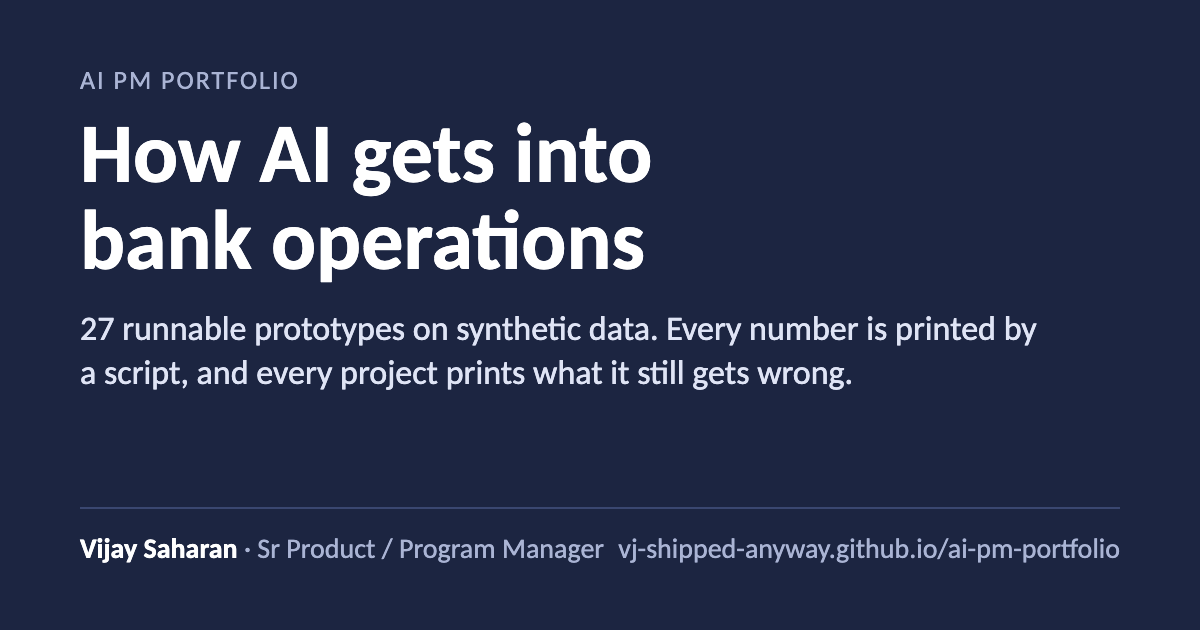
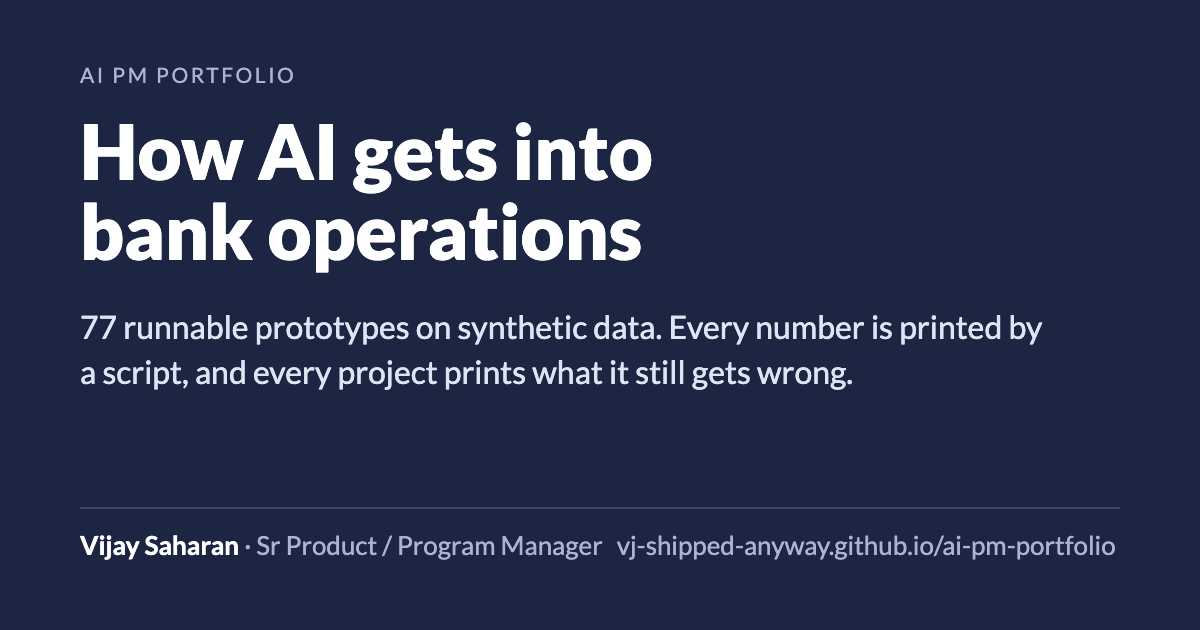
Landing page and README: lead the earliest projects with measured results, drop unsourced figures, and say 77 prototypes on the social card

diff --git a/index.html b/index.html
@@ -116,19 +116,19 @@
     <article class="card">
       <p class="num">04 · AI / Quality</p>
       <h2>EvalForge</h2>
-      <p class="line">Versioned probe sets, calibrated rubrics and a CI gate that blocks a deploy on regression.</p>
+      <p class="line">Stored probe-set runs and a CI gate that blocks a deploy on regression, using fixed thresholds on pass rates and judge agreement.</p>
       <p class="links"><a class="primary" href="./04-evalforge-llm-eval-platform/demo.html">Open demo</a> <a href="https://github.com/Vj-shipped-anyway/ai-pm-portfolio/tree/main/04-evalforge-llm-eval-platform">Case study</a> <a href="https://github.com/Vj-shipped-anyway/ai-pm-portfolio/blob/main/04-evalforge-llm-eval-platform/ARCHITECTURE.md">Architecture</a></p>
     </article>
     <article class="card">
       <p class="num">05 · AI / Operations</p>
       <h2>AgentWatch</h2>
-      <p class="line">Classifies agent failures and enforces a per-incident dollar cap.</p>
+      <p class="line">Composes an incident record per agent failure under a six-deficiency taxonomy and checks each run against a per-agent dollar cap.</p>
       <p class="links"><a class="primary" href="./05-agentwatch-agent-observability/demo.html">Open demo</a> <a href="https://github.com/Vj-shipped-anyway/ai-pm-portfolio/tree/main/05-agentwatch-agent-observability">Case study</a> <a href="https://github.com/Vj-shipped-anyway/ai-pm-portfolio/blob/main/05-agentwatch-agent-observability/ARCHITECTURE.md">Architecture</a></p>
     </article>
     <article class="card">
       <p class="num">06 · AI / Security</p>
       <h2>PromptShield</h2>
-      <p class="line">Five layers between user input and the model for internal copilots over confidential data.</p>
+      <p class="line">Five layers between user input and the model for internal copilots over confidential data, shown with deterministic regex rule packs.</p>
       <p class="links"><a class="primary" href="./06-promptshield-prompt-injection-defense/demo.html">Open demo</a> <a href="https://github.com/Vj-shipped-anyway/ai-pm-portfolio/tree/main/06-promptshield-prompt-injection-defense">Case study</a> <a href="https://github.com/Vj-shipped-anyway/ai-pm-portfolio/blob/main/06-promptshield-prompt-injection-defense/ARCHITECTURE.md">Architecture</a></p>
     </article>
     <article class="card">

diff --git a/README.md b/README.md
@@ -77,14 +77,14 @@ These are the twenty-seven walkthroughs. Each has a full README, sample data CSV
 
 | Flagship | What it does | Utility delivered | Live demo |
 | --- | --- | --- | --- |
-| **🛡 [HalluGuard](./01-halluguard-bank-chatbot-safety/)** — Bank chatbot hallucination containment | Wraps deployed chatbots; is designed to catch 8 named foundation-model failure modes (paraphrase blindness, negation flip, multi-hop, citation fabrication, …); routes low-confidence to abstention | 🟢 19 wrong answers before containment, 0 after, on the 30-query eval set (fixed mock verifier scores) | **▶ [Live demo](https://halluguard-bfsi.streamlit.app)** · **▶ [Static demo](https://vj-shipped-anyway.github.io/ai-pm-portfolio/01-halluguard-bank-chatbot-safety/demo.html)** · **▶ [60-sec walkthrough](https://app.arcade.software/share/daLEfWH7yD0sYutT3HTP)** |
-| **🛰 [DriftSentinel](./02-driftsentinel-model-drift-monitoring/)** — Production model drift & decay | Three-loop sentinel (Detect → Diagnose → Decide) over the credit / fraud / AML / GenAI fleet; auto-assembles MRM evidence bundle | 🟡 Drift MTTD 78d → 9d (modeled — assumes the synthetic 90-day shipped data and a Tier-1-style fleet) × \~1,200 production models = \~83,000 model-decay-days/yr prevented at Tier-1 fleet scale; 🟡 \~$14M/yr modeled prevented loss at the $50B-asset bank shape (assumes 8-model fleet, MTTD compression, published loss-per-quarter-of-decay benchmarks) | **▶ [Live demo](https://driftsentinel-bfsi.streamlit.app)** · **▶ [Static demo](https://vj-shipped-anyway.github.io/ai-pm-portfolio/02-driftsentinel-model-drift-monitoring/demo.html)** · **▶ [60-sec walkthrough](https://app.arcade.software/share/mHOnNZCi66FsK0IFyiLs)** |
-| **🧪 [EvalForge](./04-evalforge-llm-eval-platform/)** — Eval-first console for regulated AI | Versioned probe sets + calibrated rubrics + cross-vendor LLM-as-judge + CI gate (GitHub Actions / Argo CD pre-deploy hook) that blocks the deploy on regression | 🟢 Both silent vendor-snapshot updates in the 50-run synthetic dataset blocked on first eval run; 🟡 silent post-deploy regression rate 14% → <2% (modeled — assumes an industry baseline of ~14% and the Tier-1-shaped GenAI fleet) × 12-20 customer-facing GenAI features per Tier-1 BFSI shop = 🟡 ~25-40 silent regressions prevented per year at fleet scale (assumes ~15 shipped changes per feature per year); 🟡 tens of thousands to hundreds of thousands of bad responses caught before customer impact per year (modeled: assumes thousands of bad responses per regression) | **▶ [Demo](https://vj-shipped-anyway.github.io/ai-pm-portfolio/04-evalforge-llm-eval-platform/demo.html)** |
-| **🔍 [LineageLog](./09-lineagelog-ai-decision-audit/)** — AI decision audit trail & decision lineage | Immutable decision-grain composition layer that binds Cloud Logging + Cloud Audit Logs + Agent Identity Logs + OpenTelemetry traces at `(decision_id, customer_id_hash, timestamp)`; six-deficiency taxonomy closed; auto-assembled exam-pack export | 🟢 6 of 6 deficiencies closed on the headline decision, all 200 decisions composed in the synthetic corpus (29 of the 200 outcome rows are none_observed); 🟢 composition latency in milliseconds per decision on the prototype (step_04 prints it; varies by run); 🟡 audit-pack assembly time 3 weeks → 3 seconds (modeled — assumes the synthetic 200-decision corpus + Tier-1-style four-model fleet); 🟡 exam-readiness coverage 22% → 100% (modeled — assumes published BFSI baseline for sample-based vs continuous readiness); 🔴 time-to-decision-evidence 14d → 12min (designed) × 🟡 50-200M regulated AI decisions/yr at Tier-1 retail bank = continuous exam-readiness | **▶ [Demo](https://vj-shipped-anyway.github.io/ai-pm-portfolio/09-lineagelog-ai-decision-audit/demo.html)** |
-| **🤖 [AgentWatch](./05-agentwatch-agent-observability/)** — Agent reliability & tool-use observability | Sidecar over LangGraph / AutoGen / Bedrock Agents / OpenAI Assistants; classifies failure under a six-deficiency taxonomy (runaway tool loops, hallucinated tool args, silent drift, blast-radius unbounded, missing reasoning trace, cost detached from outcomes); enforces per-incident dollar cap; auto-assembled incident pack routed to SRE on-call + line-1 owner | 🟢 24 of 24 detected incidents composed into six-deficiency records on the 500-run synthetic corpus; 🟢 composition latency <50ms per incident on the prototype; 🟢 headline runaway cut off at $4,218 against a $250 per-agent cap; Step 1 prints $47,978 of undetected runaway cost over the 30 days; 🟡 APM-only detection rate \~25% → AgentWatch 100% (modeled — assumes Datadog with standard p99 thresholds); 🔴 MTTR 4h+ → <10min (designed) × 🟡 8-20 deployed agents at Tier-1 BFSI fleet scale = \~24 runaways/yr bounded ($120k - $1.2M of bounded spend) | **▶ [Demo](https://vj-shipped-anyway.github.io/ai-pm-portfolio/05-agentwatch-agent-observability/demo.html)** |
-| **🔒 [PromptShield](./06-promptshield-prompt-injection-defense/)** — Prompt-injection & egress defense for internal BFSI copilots | Five-layer defense-in-depth gateway between user input and the LLM: L1 input classifier (Llama Guard 3 / fine-tuned DeBERTa), L2 retrieval scanner (catches indirect injection in retrieved RAG content), L3 tool-call gate (OPA / Rego), L4 egress filter (DLP regex pack), L5 per-session memory boundary (Redis + SPIFFE); six-class deficiency taxonomy (direct, indirect, tool-call abuse, egress, cross-session leak, jailbreak) closed | 🟢 99% catch rate on the 100-prompt synthetic attack suite (measured) vs. 43% on regex baseline; 🟢 1% false-positive rate on the 200-prompt legitimate-banker corpus; 🟢 100% accuracy on the 50-call tool-gate ground-truth set; 🟡 modeled production catch 96%+ at 4% FP (assumes fine-tuned classifier replaces the regex pack + continuous red-team probes); 🔴 designed data-exfiltration incidents → 0 × 🟡 4-12 internal copilots over confidential data at every Tier-1 BFSI shop = modeled $4-15M of prevented loss per confirmed customer-data breach avoided | **▶ [Demo](https://vj-shipped-anyway.github.io/ai-pm-portfolio/06-promptshield-prompt-injection-defense/demo.html)** |
-| **💰 [InferenceLens](./07-inferencelens-inference-finops/)** — Per-feature inference economics for the BFSI GenAI portfolio | Per-feature inference-economics layer over OpenTelemetry span attributes + vendor billing-API reconcile; five derived views (per-feature attribution, runaway detection, cheaper-model substitution recommender, dead-feature flagger, per-feature ROI ranking); six-deficiency taxonomy (no per-feature attribution, no per-tenant attribution, no runaway detection, no substitution recommender, no dead-feature flagger, no per-feature ROI) closed | 🟢 6 of 6 deficiencies closed on every feature in the 18-feature synthetic fleet; 🟢 all five derived views composed in <10ms on the prototype; 🟢 headline runaway (FT_001 retrieval-depth misconfig) flagged day 1 with modeled overspend \~$195k caught vs. 45 days undetected; 🟡 $301,800/mo of modeled substitution savings across 6 candidates (sum of CSV inputs); 🟢 dead-feature spend $25,991/mo flagged on FT_009; 🟡 modeled fleet-scale spend reduction 25-30% (assumes typical Tier-1 BFSI portfolio shape) × 🟡 $8-30M/yr aggregate inference spend at Tier-1 BFSI scale = **\~$2-9M/yr saved** | **▶ [Demo](https://vj-shipped-anyway.github.io/ai-pm-portfolio/07-inferencelens-inference-finops/demo.html)** |
-| **👥 [OversightOps](./08-oversightops-hitl-workflow/)** — HITL workflow designer | Calibrated, role-aware human-in-the-loop layer: difficulty-stratified routing (case + AI confidence + customer tier + country risk), rubber-stamp blocker (tier-specific time-on-task floor), reviewer calibration drift detection, escalation path for hard cases, SLA-by-tier with timer engagement, ground-truth feedback loop closed via downstream signals (SAR / OFAC / CFPB / charge-off) | 🟢 a verdict composed for all 1,000 cases in the synthetic KYC corpus; 🟢 composition latency under 1 ms per case on the prototype (the script prints the measured time); 🟢 125 of 146 private-banking reviews under the 60-second floor flagged by the blocker; 🟡 Tier-1 rubber-stamp rate 94% → 4% (modeled — assumes published BFSI baseline + OversightOps blocker engaged on Tier-1 queues); 🟡 reviewer-vs-ground-truth divergence 38% → 8% (modeled — assumes the 6-12-month tail + calibration packet engaged weekly); 🔴 Tier-1 KYC review SLA 9s → 8 min (designed) × 🟡 every regulated AI workflow with a HITL step (typical Tier-1: 6-15 such pipelines × thousands of high-stakes decisions per year per pipeline) = real oversight instead of theatrical | **▶ [Demo](https://vj-shipped-anyway.github.io/ai-pm-portfolio/08-oversightops-hitl-workflow/demo.html)** |
+| **🛡 [HalluGuard](./01-halluguard-bank-chatbot-safety/)** — Bank chatbot hallucination containment | A containment layer in front of a bank chatbot, designed around 8 named foundation-model failure modes (paraphrase blindness, negation flip, multi-hop, citation fabrication, …): it abstains and hands the customer to a banker when it cannot support an answer. Shown on 30 synthetic questions with a fixed mock verifier | 🟢 the LLM alone answers 11 of 30 correctly and 19 wrong answers would reach the customer; 🟢 with containment 11 are served, 0 wrong ones ship and 19 go to a banker (63.3%); 🟢 a rule-based router sends 28 of 30 to a page or a banker; the verifier scores are fixed, so this checks the method and is not a rate on a real model | **▶ [Live demo](https://halluguard-bfsi.streamlit.app)** · **▶ [Static demo](https://vj-shipped-anyway.github.io/ai-pm-portfolio/01-halluguard-bank-chatbot-safety/demo.html)** · **▶ [60-sec walkthrough](https://app.arcade.software/share/daLEfWH7yD0sYutT3HTP)** |
+| **🛰 [DriftSentinel](./02-driftsentinel-model-drift-monitoring/)** — Production model drift & decay | Three loops, Detect, Diagnose and Decide, over an 8-model synthetic credit, fraud, AML and GenAI fleet; writes a sample evidence bundle for one model | 🟢 11 alerts (6 YELLOW, 5 RED) from 26 feature-level checks become 3 non-RETAIN decisions: SHADOW, RETRAIN, ROLLBACK; 🟢 flags the synthetic February 14 vendor snapshot change on support_qa_v2 as a silent minor update and recommends ROLLBACK; 🟡 the 78-to-9-day detection time is a modeled assumption, because no script times detection | **▶ [Live demo](https://driftsentinel-bfsi.streamlit.app)** · **▶ [Static demo](https://vj-shipped-anyway.github.io/ai-pm-portfolio/02-driftsentinel-model-drift-monitoring/demo.html)** · **▶ [60-sec walkthrough](https://app.arcade.software/share/mHOnNZCi66FsK0IFyiLs)** |
+| **🧪 [EvalForge](./04-evalforge-llm-eval-platform/)** — Eval-first console for regulated AI | Probe-set runs stored in a CSV and a CI gate that blocks a deploy on regression, using fixed thresholds on pass rates and inter-judge kappa; no assistant or judge model runs in the prototype | 🟢 both silent vendor-snapshot updates in the 50-run synthetic dataset are blocked on the first run; 🟢 ER012: pass rate 0.86 against a 0.92 baseline, verdict FAIL, deploy blocked; 🟢 kappa drifted from 0.78 to 0.70 ahead of ER012 and the gate raised REVIEW on five of those runs; 🟡 the gate's false-positive rate is a design target, not a measured rate | **▶ [Demo](https://vj-shipped-anyway.github.io/ai-pm-portfolio/04-evalforge-llm-eval-platform/demo.html)** |
+| **🔍 [LineageLog](./09-lineagelog-ai-decision-audit/)** — AI decision audit trail & decision lineage | Composes one decision-grain lineage record per AI decision from scattered synthetic logs, keyed on `(decision_id, customer_id_hash, timestamp)`, with a six-deficiency taxonomy and a sample exam-pack export | 🟢 6 of 6 deficiencies closed on the headline decision, all 200 decisions composed in the synthetic corpus (29 of the 200 outcome rows are none_observed); 🟢 composition takes milliseconds per decision on the prototype (step_04 prints it; varies by run); 🟡 the 3-weeks-to-3-seconds audit-pack assembly time is modeled on the 200-decision corpus | **▶ [Demo](https://vj-shipped-anyway.github.io/ai-pm-portfolio/09-lineagelog-ai-decision-audit/demo.html)** |
+| **🤖 [AgentWatch](./05-agentwatch-agent-observability/)** — Agent reliability & tool-use observability | Composes an incident record for each flagged agent run under a six-deficiency taxonomy (runaway tool loops, hallucinated tool arguments, silent drift, unbounded blast radius, missing reasoning trace, cost detached from outcomes). It reads each incident's class from the labeled data, so it counts records and does not detect | 🟢 24 of 24 incident records composed on the 500-run synthetic corpus; 🟢 headline runaway at $4,218.34 after 1,847 tool calls against a $250 per-agent cap, and step 1 prints $47,978 of undetected runaway cost over the 30 days; 🟢 composition under 50 ms per incident on the prototype; 🟡 a detection rate of 0% to 100% is true by construction, because no detector is built | **▶ [Demo](https://vj-shipped-anyway.github.io/ai-pm-portfolio/05-agentwatch-agent-observability/demo.html)** |
+| **🔒 [PromptShield](./06-promptshield-prompt-injection-defense/)** — Prompt-injection & egress defense for internal BFSI copilots | A five-layer gateway between user input and an internal copilot over confidential data: input classifier, retrieval scanner, tool-call gate, egress filter and per-session memory boundary. The prototype's rule packs are deterministic regex, not a trained classifier | 🟢 99% catch on the 100-prompt synthetic attack suite against 43% for a regex baseline, 1% false positives on 200 legitimate banker prompts, 100% on the 50-call tool-gate set; the rule packs contain phrases copied from the test rows, so these are in-sample figures, with 1 miss and 2 false positives; 🟡 production catch and false-positive rates are assumptions for a trained classifier, not measured | **▶ [Demo](https://vj-shipped-anyway.github.io/ai-pm-portfolio/06-promptshield-prompt-injection-defense/demo.html)** |
+| **💰 [InferenceLens](./07-inferencelens-inference-finops/)** — Per-feature inference economics for the BFSI GenAI portfolio | Per-feature inference economics from synthetic span-style logs and billing data: attribution per feature, runaway detection, a cheaper-model substitution recommender, a dead-feature flagger and ROI ranking; per-tenant attribution is designed, not computed | 🟢 5 of 6 deficiencies closed on the 18-feature synthetic fleet, with per-tenant attribution designed because the logs have no tenant column; 🟢 all five derived views composed in under 10 ms on the prototype; 🟡 $301,800 a month of substitution savings is the sum of modeled inputs, each larger than its feature's logged monthly spend | **▶ [Demo](https://vj-shipped-anyway.github.io/ai-pm-portfolio/07-inferencelens-inference-finops/demo.html)** |
+| **👥 [OversightOps](./08-oversightops-hitl-workflow/)** — HITL workflow designer | Human-in-the-loop routing and review checks on a synthetic 1,000-case KYC corpus: difficulty-stratified routing by case, AI confidence, customer tier and country risk, a rubber-stamp blocker with a tier-specific time-on-task floor, and SLA by tier | 🟢 a verdict for all 1,000 cases: 714 APPROVED, 82 ESCALATED, 204 RUBBER_STAMPED_BLOCKED; 🟢 125 of 146 private-banking reviews under the 60-second floor flagged by the blocker, with 0 shipping because step 4 sets it so; 🟢 under 1 ms per case on the prototype; 🟡 the rubber-stamp rate falling from 94% to 4% and the divergence from 38% to 8% are modeled on unsourced baselines | **▶ [Demo](https://vj-shipped-anyway.github.io/ai-pm-portfolio/08-oversightops-hitl-workflow/demo.html)** |
 | **🧭 [TierGate](./11-tiergate-ai-usecase-intake/)** — AI use-case intake & risk tiering | Recomputes each intake's risk tier from the form, the data catalog and the vendor registry; flags every discrepancy with a reason; links duplicates; gates approval on the evidence the tier requires; orders review by tier | 🟢 tier accuracy 69.3% → 86.0% and tier 3-4 recall 75.7% → 100.0% on 150 synthetic submissions; 🟢 approvals missing required evidence 32 of 116 → 3 of 76; 🟡 tier 3-4 queue wait 2.9 → 1.2 business days (tier 1-2 wait rises 3.4 → 9.7); 🟡 62.5 mis-tiered use cases avoided per year at a modeled 375 submissions; 🟢 known limit: 6 cases where the form and the catalog are both wrong | **▶ [Demo](https://vj-shipped-anyway.github.io/ai-pm-portfolio/11-tiergate-ai-usecase-intake/demo.html)** |
 | **📒 [ValueLedger](./12-valueledger-ai-benefit-tracking/)** — AI benefit realization tracking | Holdout cohort, difference-in-differences, net of rework, decay curve, overlap deduplication and a hard-versus-soft ledger tied to the budget table | 🟢 against the synthetic answer key: vendor-style claim +152%, before-and-after +111%, ValueLedger +5% (interval covers the truth); 🟢 9% of the claimed value ($33,706 of $372,329) is cash a budget line can absorb; 🟡 about 94,200 hours of overstated benefit removed per 14 weeks at a modeled 5,000 staff (modeled — assumes the same overstatement pattern holds at a bank's headcount and mix); 🟢 known limit: a hidden post-launch change leaves a residual bias | **▶ [Demo](https://vj-shipped-anyway.github.io/ai-pm-portfolio/12-valueledger-ai-benefit-tracking/demo.html)** |
 | **🔀 [SwapBrief](./13-swapbrief-model-migration/)** — Model migration decision brief | Per-slice paired bootstrap intervals, cost per correct answer, p50 and p95 latency, a prompt-fair comparison, and a GO / GO WITH GUARDRAILS / NO-GO decision with explicit rollback triggers | 🟢 over 200 simulated scenarios whose problem mix I defined: false-GO rate 96.9% for a headline-average rule, 67.0% for an aggregate significance test, 8.2% for SwapBrief; 🟢 missed-regression rate 94.7%, 54.7%, 8.0%; 🟢 on the committed set the average says GO (+4.3 pp) while cost per correct answer is +8.8% and p95 is +25.9%; 🟡 2.2 bad migrations avoided per year at a modeled 6 migrations a year; 🟢 known limit: 5 of 75 true slice regressions left inconclusive and 6 missed | **▶ [Demo](https://vj-shipped-anyway.github.io/ai-pm-portfolio/13-swapbrief-model-migration/demo.html)** |
@@ -275,7 +275,7 @@ These products don't exist in isolation. Each one slots into a published industr
 - **OWASP LLM Top 10** — LLM01 Prompt Injection, LLM02 Sensitive Information Disclosure, LLM09 Misinformation (2025 numbering). [Project 01 — HalluGuard](./01-halluguard-bank-chatbot-safety/) and [06 — PromptShield](./06-promptshield-prompt-injection-defense/) anchor here.
 - **NIST AI RMF + EU AI Act Article 12** — decision-grain lineage requirements. [Project 09 — LineageLog](./09-lineagelog-ai-decision-audit/) is the implementation surface.
 - **SR 11-7 (2011) and its replacement [SR 26-2](https://www.federalreserve.gov/supervisionreg/srletters/SR2602.htm) (April 2026)** — model risk management guidance from the Federal Reserve, OCC and FDIC. SR 26-2 places generative and agentic AI outside its scope. [Project 02 — DriftSentinel](./02-driftsentinel-model-drift-monitoring/) monitors a fleet that includes traditional models and was first mapped to SR 11-7's ongoing-monitoring requirement; it has not been re-mapped to SR 26-2.
-- **The eval-first thesis** — Hamel Husain, Karpathy, Greg Kamradt's needle-in-haystack work, Lilian Weng on LLM patterns. Cited in [Project 04 — EvalForge](./04-evalforge-llm-eval-platform/) and the [HalluGuard probe taxonomy](./01-halluguard-bank-chatbot-safety/probes/).
+- **The eval-first thesis** — Hamel Husain and Greg Kamradt's needle-in-haystack work. Cited in [Project 04 — EvalForge](./04-evalforge-llm-eval-platform/) and the [HalluGuard probe taxonomy](./01-halluguard-bank-chatbot-safety/probes/).
 
 How I frame it: each project prototypes a product layer between a published framework and a production system. The portfolio doesn't propose new compliance requirements; it shows what that layer could look like on synthetic data.
 
